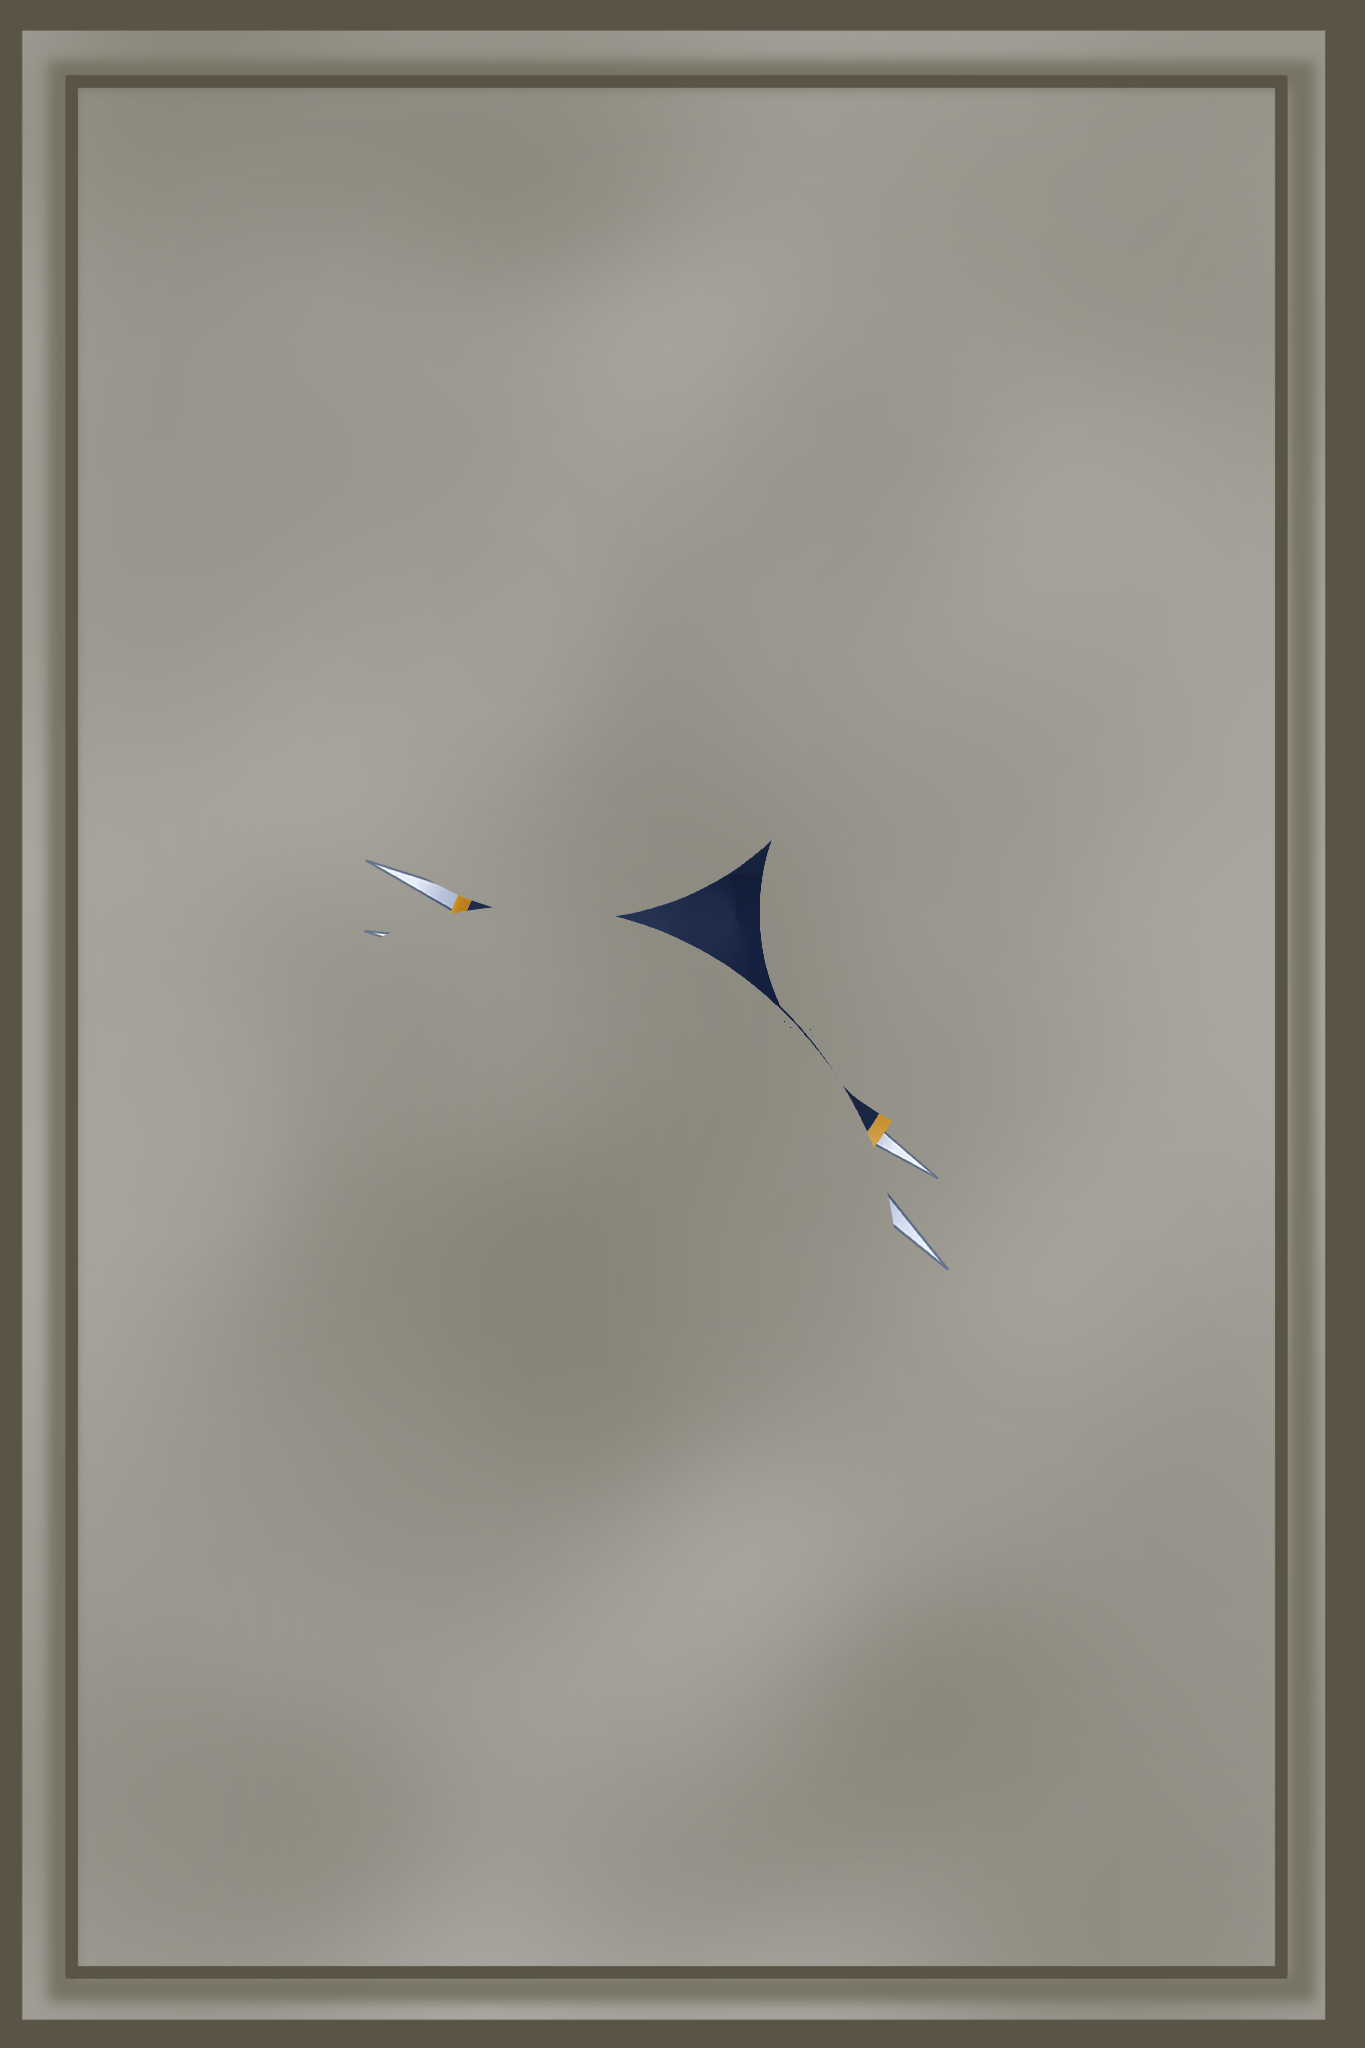
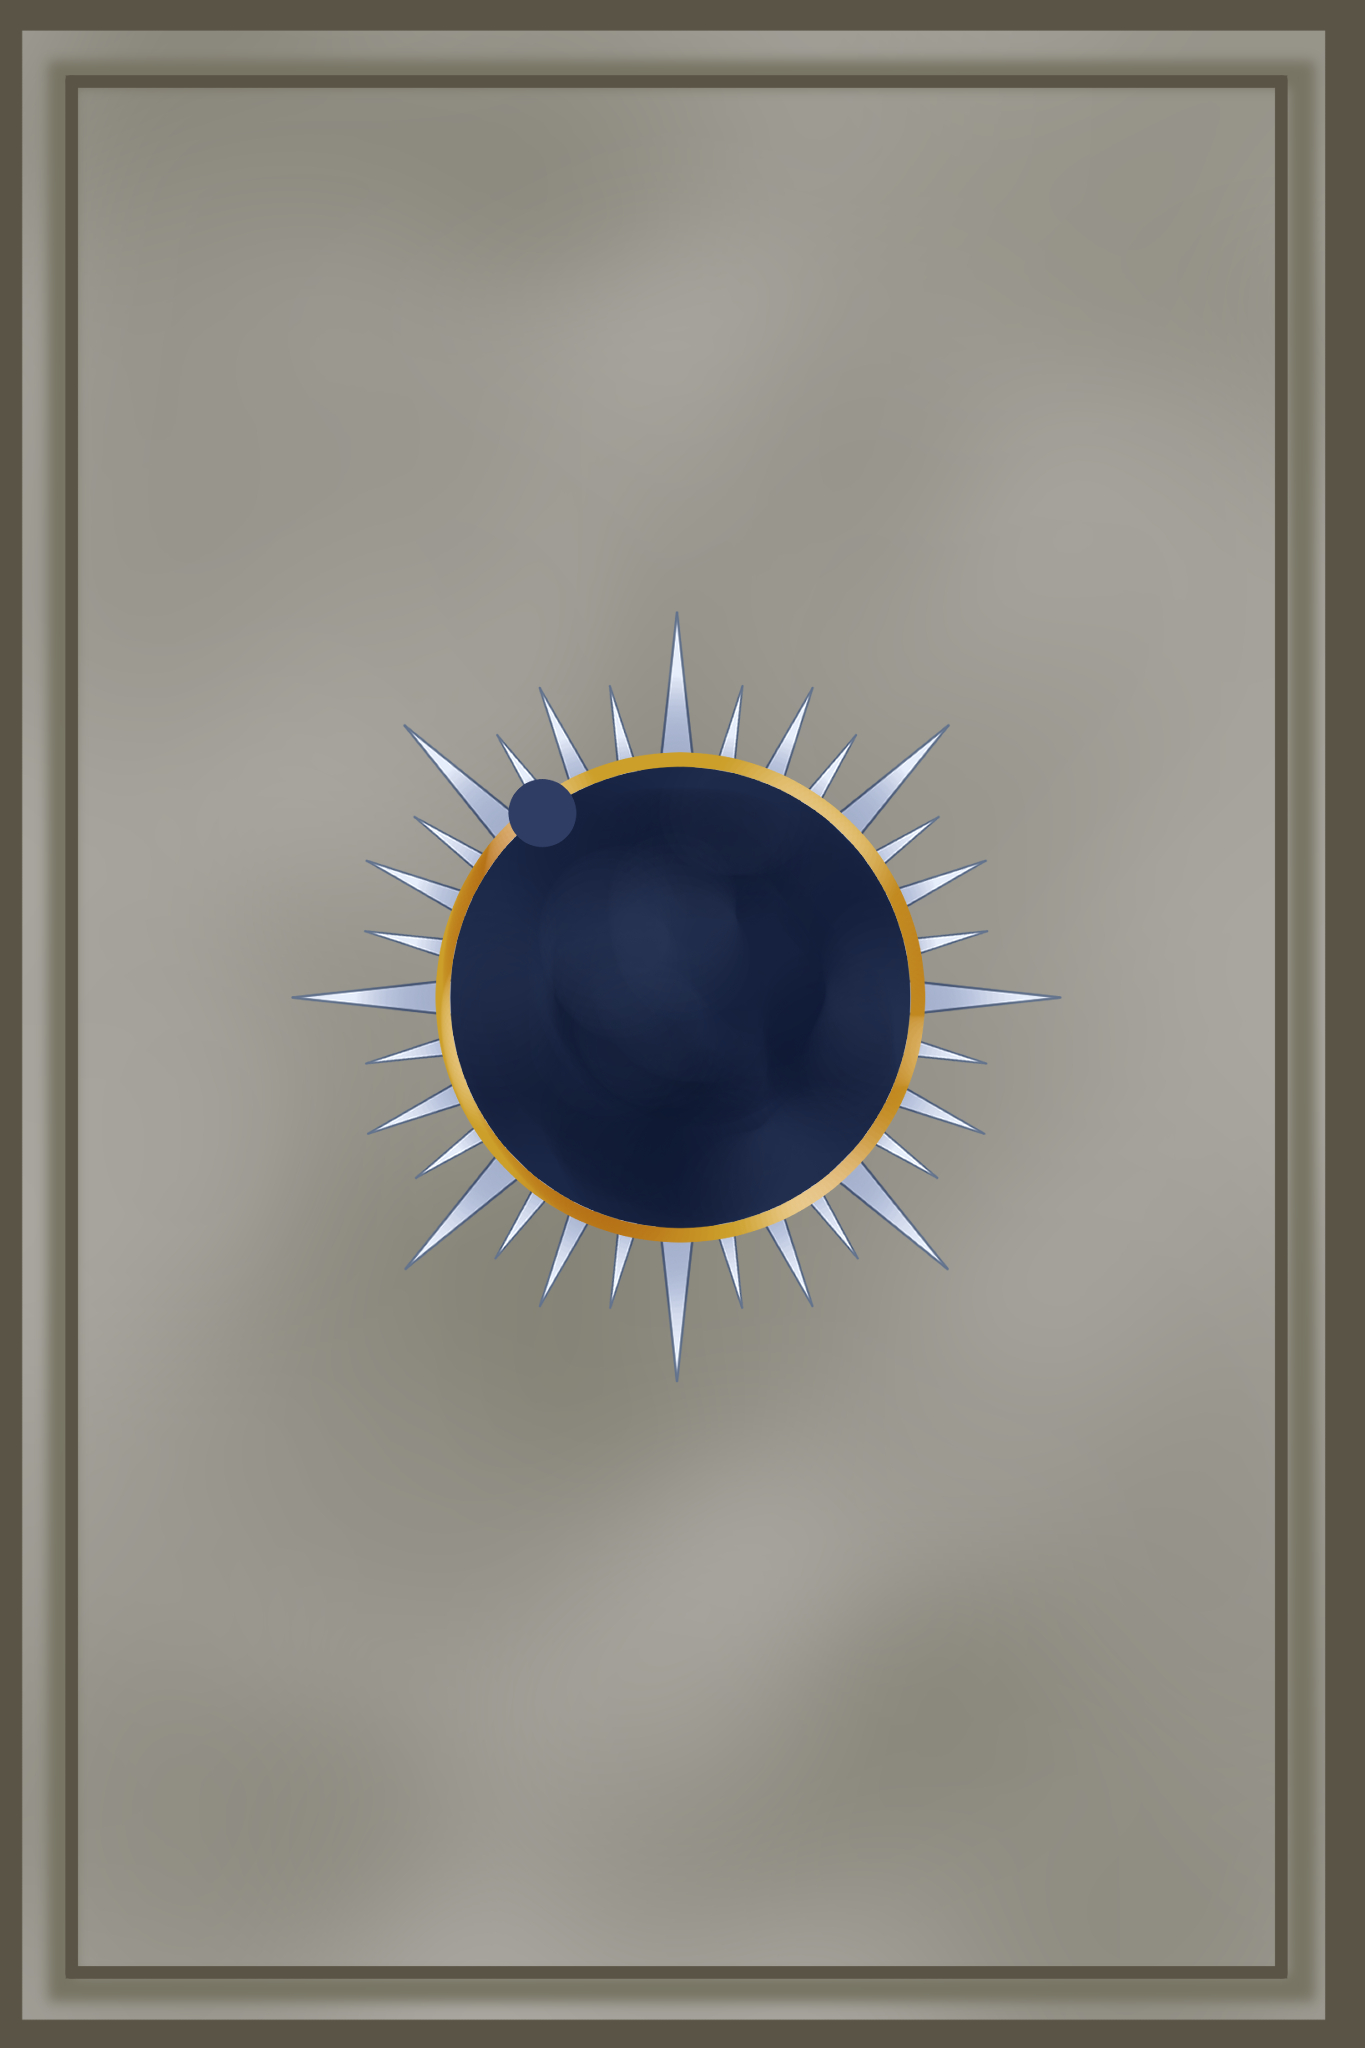
[Fix] 밤 판/완성 그림 내용 맞바꿈, 불씨 아이콘 겹침, 퍼즐 파피루스 배경
- P3_Board_Base_Night / P3_Complete_Night 그림 내용이 서로 바뀌어 있던 것 바로잡음 (GUID 유지)
- 횃불 게이지: 라의 불씨 아이콘과 글자 간격
- PuzzleOverlayTheme: 파피루스 배경판 + 파피루스 위 흰 글자 진하게 (P1, P4)
- Common_UI_PuzzlePapyrus 추가, 밤 비석 아트 레퍼런스

Changed region(s): [[0.2154, 0.3125, 0.7692, 0.6562]]

diff --git a/Assets/Scripts/Editor_/RaFixArt.cs b/Assets/Scripts/Editor_/RaFixArt.cs
@@ -66,6 +66,45 @@ public static class RaFixArt
         if (img != null) so.FindProperty("boardImage").objectReferenceValue = img;
     }
 
+    // ================= 퍼즐 화면 파피루스 배경판 (P1 그림자 시계, P4 카드 벤치) =================
+    private const string PapyrusPath = "Assets/image/Common/UI/Common_UI_PuzzlePapyrus.png";
+    private static readonly string[] PapyrusOverlays = { "P1_Overlay", "P4_Overlay" };
+
+    public static void PuzzlePapyrus()
+    {
+        Sprite papyrus = PapyrusSprite();
+        if (papyrus == null)
+        {
+            Debug.LogWarning($"[RaFixSetup] 파피루스 그림 없음: {PapyrusPath}");
+            return;
+        }
+        foreach (PuzzleOverlayTheme theme in Object.FindObjectsByType<PuzzleOverlayTheme>(FindObjectsInactive.Include, FindObjectsSortMode.None))
+        {
+            if (System.Array.IndexOf(PapyrusOverlays, theme.name) < 0) continue;
+            RaPolishSetup.Edit(theme, so =>
+            {
+                so.FindProperty("papyrusSprite").objectReferenceValue = papyrus;
+                so.FindProperty("papyrusSize").vector2Value = new Vector2(1460f, 1060f);
+            });
+            Debug.Log($"[RaFixSetup] {theme.name}에 파피루스 배경판 연결");
+        }
+    }
+
+    // 일러스트 UI라 도트 설정(Point) 말고 부드럽게
+    private static Sprite PapyrusSprite()
+    {
+        if (!(AssetImporter.GetAtPath(PapyrusPath) is TextureImporter imp)) return null;
+        if (imp.textureType != TextureImporterType.Sprite || imp.spriteImportMode != SpriteImportMode.Single || imp.filterMode != FilterMode.Bilinear)
+        {
+            imp.textureType = TextureImporterType.Sprite;
+            imp.spriteImportMode = SpriteImportMode.Single;
+            imp.filterMode = FilterMode.Bilinear;
+            imp.mipmapEnabled = false;
+            imp.SaveAndReimport();
+        }
+        return FirstSprite(PapyrusPath);
+    }
+
     // 한 장짜리 Sprite로 + (원판은 클릭 판정용 Read/Write 켬)
     private static Sprite LoadSprite(string path, bool readable, bool forceSingle = false)
     {

diff --git a/Assets/Scripts/Rooms/Ra/RaTorchGaugeUI.cs b/Assets/Scripts/Rooms/Ra/RaTorchGaugeUI.cs
@@ -115,9 +115,11 @@ public class RaTorchGaugeUI : MonoBehaviour
 
     private void BuildEmber(RectTransform panel)
     {
-        emberIcon = UIBuild.Image(panel, "Ember", new Vector2(-130f, -28f), new Vector2(30f, 30f), emberSprite, gold);
+        // [수정] 아이콘(왼쪽 끝 -145 ~ -115)과 글자(-95부터)가 겹치지 않게 20px 띄움
+        emberIcon = UIBuild.Image(panel, "Ember", new Vector2(-130f, -32f), new Vector2(30f, 30f), emberSprite, gold);
         if (emberSprite == null) emberIcon.sprite = UIBuild.Circle();
-        emberText = UIBuild.Text(panel, "EmberText", PuzzleUITheme.GetBodyFont(), 18, new Vector2(-40f, -28f), new Vector2(150f, 26f), gold);
+        emberText = UIBuild.Text(panel, "EmberText", PuzzleUITheme.GetBodyFont(), 18, new Vector2(-10f, -32f), new Vector2(170f, 26f), gold);
+        emberText.horizontalOverflow = HorizontalWrapMode.Overflow;
         emberText.alignment = TextAnchor.MiddleLeft;
         emberText.text = "라의 불씨";
     }

diff --git a/Assets/Scripts/Editor_/RaFixSetup.cs b/Assets/Scripts/Editor_/RaFixSetup.cs
@@ -14,6 +14,7 @@ using Object = UnityEngine.Object;
 // 4. 기둥 4개: 밑동에 충돌 상자 (앞으로 못 지나감)
 // 5. 성소 화로: 신전 가운데 꺼지지 않는 불 (횃불 다시 붙이기 + 밝은 곳)
 // 6. 단서 그림: 밤 P3, P4, P5 비석에 밤 벽화 넣기 / 일식 석탁 밤 그림(달이 해를 삼킨 문양) 넣기
+// 7. 퍼즐 화면 파피루스 배경판: P1 그림자 시계, P4 카드 벤치 (흰 글자는 진한 갈색으로)
 public static class RaFixSetup
 {
     private const string FirstMenu = "PharaohCube/Ra/라의 방 다듬기 (어둠, 글자, 히든 불씨)";
@@ -43,6 +44,7 @@ public static class RaFixSetup
             RaFixParts.Brazier();
             RaFixArt.ClueArt();
             RaFixArt.EclipseNightArt();
+            RaFixArt.PuzzlePapyrus();
             ObjectiveText();
 
             EditorSceneManager.MarkSceneDirty(root.scene);
